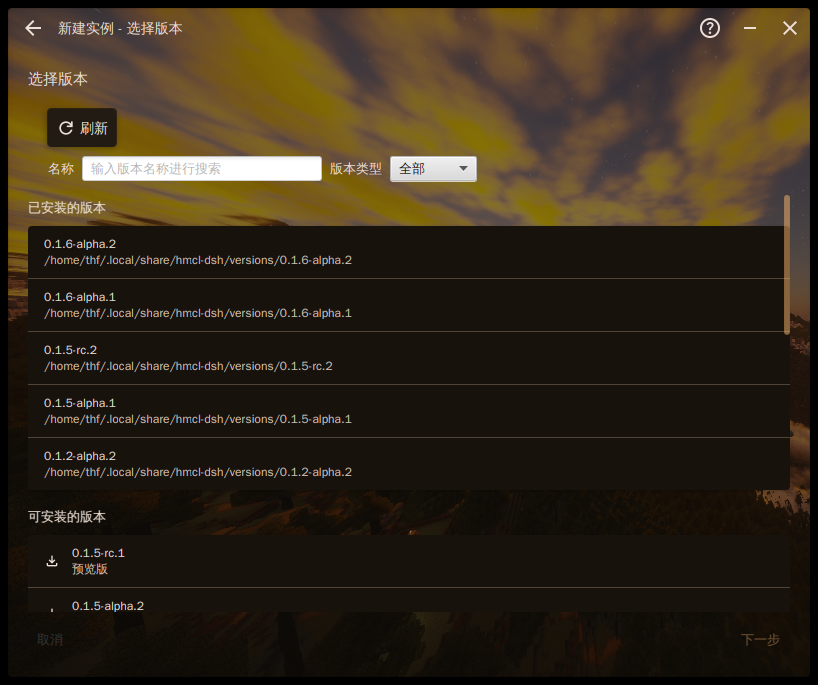
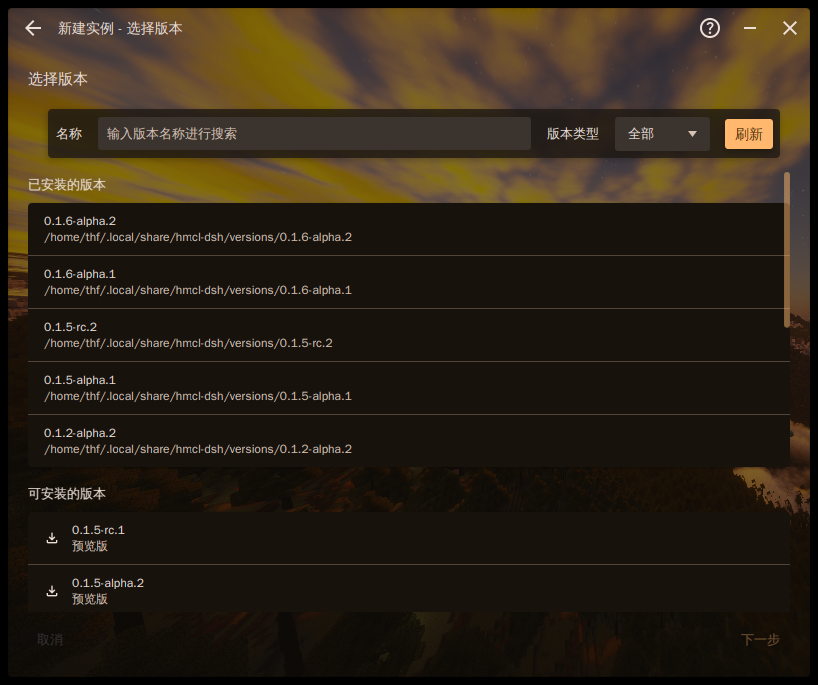
Give the wizard's version list the download page's toolbar, properly
Adding the toolbar was not enough: it had to be built from the same parts.

The search box and the filter were plain JavaFX controls. The stylesheet is
written for the JFoenix ones, so neither picked up a single rule and both came out
as white system controls in the middle of a dark page. They are JFXTextField and
JFXComboBox now.

The refresh button was a raised button with the card class added to it. Both set a
background and the card's wins, so the button rendered as a dark panel with
unreadable text — the same button that is orange two pages away, because there the
card is on the container holding the row. The card belongs on the container here
too, and the row is one row as the download page's is: name, field, type, filter
and refresh together.

Checked afterwards: the page's toolbar is the download page's toolbar — a
stretching field, a styled filter, a raised refresh, all on one card.

The lesson is recorded with the others: the stylesheet only knows JFoenix
controls, and a card goes on the container rather than on the button.

diff --git a/src/main/java/org/jackhuang/hmcl/ui/dsh/install/VersionSelectPage.java b/src/main/java/org/jackhuang/hmcl/ui/dsh/install/VersionSelectPage.java
@@ -37,6 +37,8 @@ import org.jackhuang.hmcl.ui.SVG;
 import org.jackhuang.hmcl.task.Schedulers;
 import org.jackhuang.hmcl.ui.ToolbarListPageSkin;
 import org.jetbrains.annotations.Nullable;
+import com.jfoenix.controls.JFXComboBox;
+import com.jfoenix.controls.JFXTextField;
 import org.jackhuang.hmcl.ui.construct.ComponentList;
 import org.jackhuang.hmcl.ui.construct.LineButton;
 import org.jackhuang.hmcl.ui.construct.LineTextPane;
@@ -73,11 +75,10 @@ public final class VersionSelectPage extends VBox implements WizardPage {
     private final ComponentList remoteList = new ComponentList();
 
     /// The name typed into the filter.
-    private final javafx.scene.control.TextField nameField = new javafx.scene.control.TextField();
+    private final JFXTextField nameField = new JFXTextField();
 
     /// The release types the list can be narrowed to.
-    private final javafx.scene.control.ComboBox<TypeFilter> typeFilter =
-            new javafx.scene.control.ComboBox<>();
+    private final JFXComboBox<TypeFilter> typeFilter = new JFXComboBox<>();
 
     /// What the type filter can be set to.
     ///
@@ -181,21 +182,29 @@ public final class VersionSelectPage extends VBox implements WizardPage {
         });
         typeFilter.valueProperty().addListener((observable, was, value) -> renderRemote());
 
-        javafx.scene.Node toolbar = ToolbarListPageSkin.createToolbarButton2(
-                i18n("button.refresh"), SVG.REFRESH, this::loadReleases);
-        toolbar.getStyleClass().add("card");
-        VBox.setMargin(toolbar, new Insets(10, 10, 0, 20));
+        // A raised button, as the download page's own refresh is: this is that
+        // same list, and the flat toolbar button its other pages use reads as a
+        // different control here.
+        JFXButton refresh = FXUtils.newRaisedButton(i18n("button.refresh"));
+        refresh.setOnAction(event -> loadReleases());
 
-        HBox filterRow = new HBox(8,
+        // One row, inside a card, as the download page has it. The card goes on
+        // the container and not on the button: both classes set a background, and
+        // the card's wins, which leaves the raised button looking like a plain
+        // panel with unreadable text on it.
+        HBox filterRow = new HBox(16,
                 new Label(i18n("download.name")), nameField,
-                new Label(i18n("download.type")), typeFilter);
+                new Label(i18n("download.type")), typeFilter,
+                refresh);
         filterRow.setAlignment(Pos.CENTER_LEFT);
-        filterRow.setPadding(new Insets(0, 10, 0, 20));
+        filterRow.getStyleClass().add("card");
+        VBox.setMargin(filterRow, new Insets(10, 10, 0, 20));
+        HBox.setHgrow(nameField, Priority.ALWAYS);
 
         FXUtils.smoothScrolling(scroll);
         VBox.setVgrow(scroll, Priority.ALWAYS);
 
-        getChildren().setAll(title, toolbar, filterRow, scroll, buildFooter());
+        getChildren().setAll(title, filterRow, scroll, buildFooter());
 
         loadRemote(installed);
     }

diff --git a/CONTRIBUTING.md b/CONTRIBUTING.md
@@ -259,6 +259,26 @@ ComponentList.add(child)
 **判定方法**：找内容卡片或第一行内容的左缘 x 坐标 —— 应当是 10~20，
 若是 200 多就是这条。
 
+### 样式表只认 JFoenix 控件
+
+`root.css` 里的规则是写给 **JFoenix** 控件的（`.jfx-text-field`、`.jfx-combo-box`），
+**原生 JavaFX 的 `TextField` / `ComboBox` 拿不到这些样式** —— 会渲染成白底系统控件。
+
+自造界面时一律用 `JFXTextField` / `JFXComboBox` / `JFXButton`。
+本项目里我自己新增的两处都犯过这个错，症状是「白底输入框」。
+
+### `.card` 加在容器上，不加在按钮上
+
+两个类都设 `-fx-background-color`：
+
+```css
+.jfx-button-raised { -fx-background-color: -monet-primary; }        /* 想让按钮是橙色 */
+.card              { -fx-background-color: -monet-surface-...-80; } /* 想要的是容器 */
+```
+
+**同时加在按钮上，`.card` 会赢** —— 按钮变成一个深色面板，上面的文字几乎看不见。
+原版是把 `card` 加在**包住这一行的容器**上。
+
 ### prompt 不是选中值
 
 `JFXComboBox` 里 **prompt 和选中值是两个不同的渲染节点，内边距不同**：
